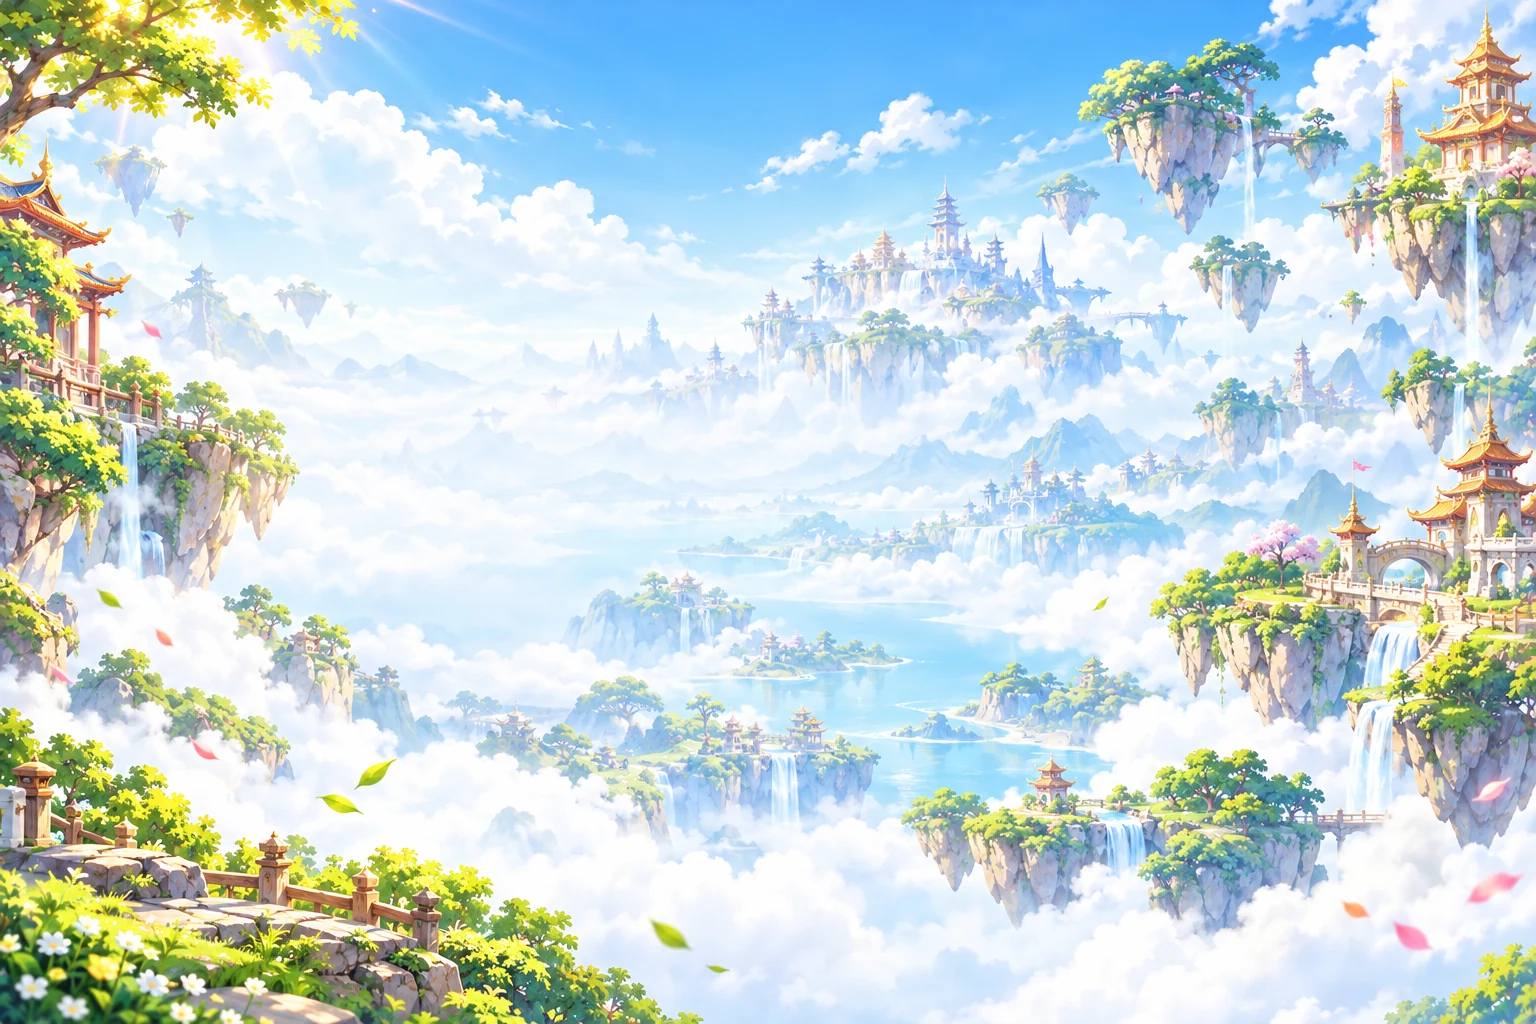
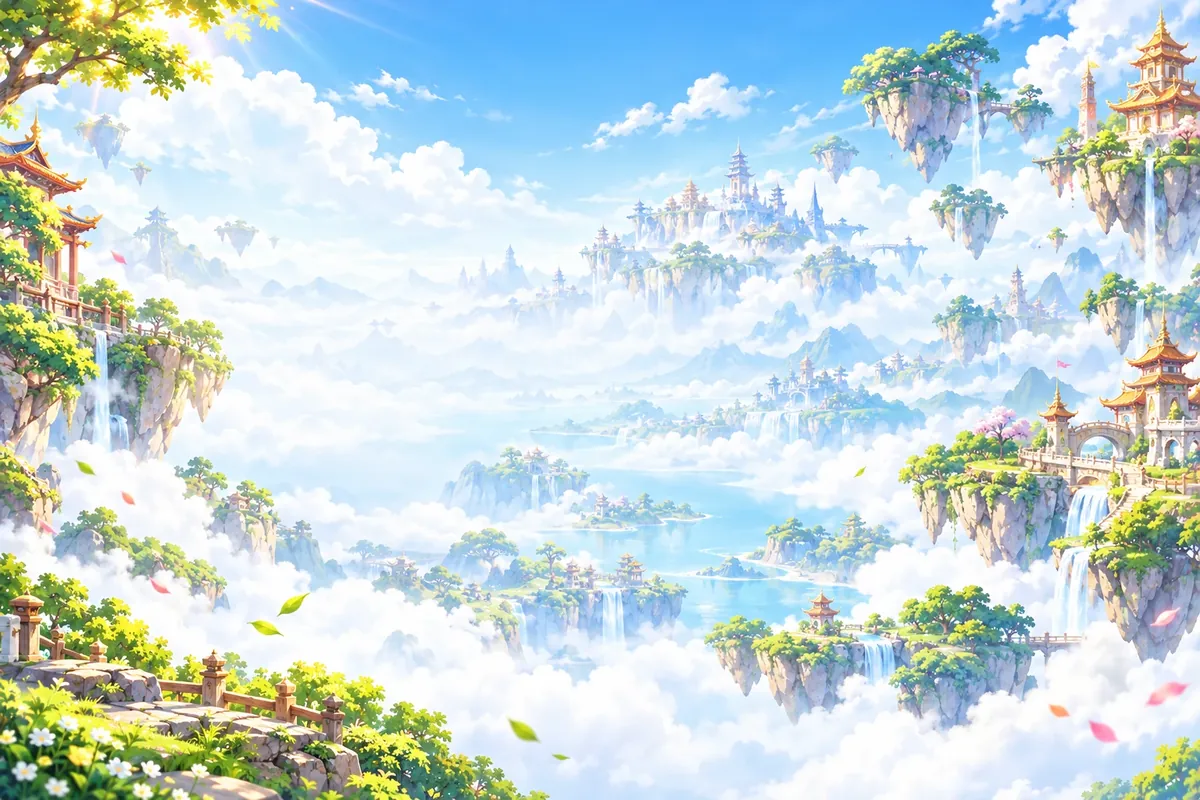
perf(player): compress portal artwork and refresh cache keys

Changed region(s): [[0.3083, 0.9375, 0.3392, 0.9688]]

diff --git a/assets/css/player-portal-v3.css b/assets/css/player-portal-v3.css
@@ -147,7 +147,7 @@ body.portal-page:before{
  padding:clamp(27px,3.3vw,46px);
  border:1px solid rgba(255,255,255,.94);border-radius:24px;
  background:linear-gradient(92deg,#fff 0%,#f2faff 48%,rgba(226,245,255,.73) 74%,rgba(221,245,255,.25)),
- url("/assets/img/portal-sky-vista.webp") right 44%/auto 145% no-repeat,
+ url("/assets/img/portal-sky-vista.webp?v=20261017-2") right 44%/auto 145% no-repeat,
  linear-gradient(120deg,#e3f8ff,#d2eaff);
  box-shadow:0 20px 42px rgba(38,95,174,.14);
 }
@@ -408,7 +408,7 @@ body.portal-page:before{
  .portal-page .mini-avatar{width:33px;height:33px;border-radius:10px}
  .portal-page .portal-hero{
   min-height:0;margin:15px 0 20px;padding:24px 18px;border-radius:18px;
-  background:linear-gradient(90deg,#fff 0%,#eff9ff 90%),url("/assets/img/portal-sky-vista.webp") right center/cover;
+  background:linear-gradient(90deg,#fff 0%,#eff9ff 90%),url("/assets/img/portal-sky-vista.webp?v=20261017-2") right center/cover;
  }
  .portal-page .portal-hero h1{font-size:clamp(27px,6.8vw,35px)}
  .portal-page .portal-hero p{font-size:12px;line-height:1.75}
@@ -775,12 +775,12 @@ body.portal-page:before{
 .portal-page .portal-dashboard-hero{
  background:
   linear-gradient(90deg,#fff 0%,rgba(244,251,255,.97) 38%,rgba(236,248,255,.48) 70%,rgba(232,246,255,.12)),
-  url("/assets/img/portal-adventurer.webp") right 8% center/auto 94% no-repeat,
-  url("/assets/img/portal-sky-vista.webp") center 52%/cover no-repeat,#e8f7ff;
+  url("/assets/img/portal-adventurer.webp?v=20261017-2") right 8% center/auto 94% no-repeat,
+  url("/assets/img/portal-sky-vista.webp?v=20261017-2") center 52%/cover no-repeat,#e8f7ff;
 }
 @media(max-width:600px){
  .portal-page .portal-dashboard-hero{
-  background:linear-gradient(90deg,rgba(255,255,255,.96),rgba(240,249,255,.91)),url("/assets/img/portal-sky-vista.webp") center/cover no-repeat;
+  background:linear-gradient(90deg,rgba(255,255,255,.96),rgba(240,249,255,.91)),url("/assets/img/portal-sky-vista.webp?v=20261017-2") center/cover no-repeat;
  }
 }
 
